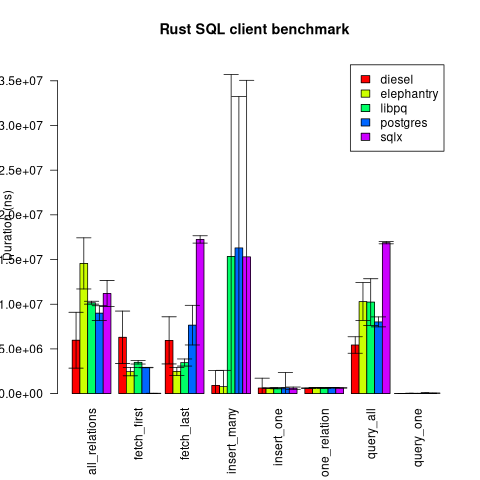
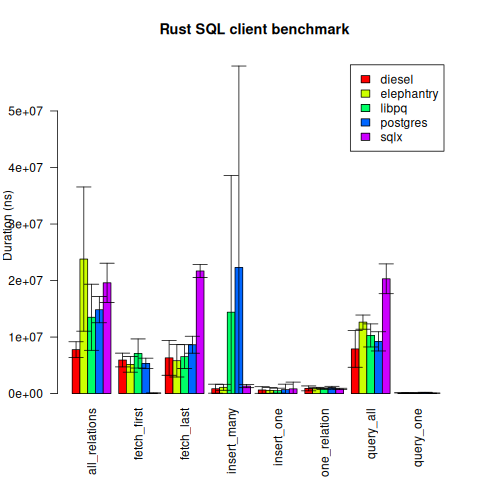
use bulk inserts for sqlx
The sqlx FAQ https://github.com/launchbadge/sqlx/blob/main/FAQ.md recommends using unnest for batch inserts since there is no support for binding an array to a values clause

diff --git a/sqlx/src/lib.rs b/sqlx/src/lib.rs
@@ -61,6 +61,18 @@ impl elephantry_benchmark::Client for Connection {
         })
         .map(|_| ())
     }
+    
+    fn insert_users(&mut self, n: usize) -> Result<(), Self::Error> {
+        let names = vec!["User"; n];
+        let colors = vec!["hair color"; n];
+        async_std::task::block_on({
+            sqlx::query("INSERT INTO users (name, hair_color) select * from unnest($1::text[], $2::text[])")
+                .bind(&names)
+                .bind(&colors)
+                .execute(&mut self.0)
+        })
+        .map(|_| ())
+    }
 
     fn fetch_all(&mut self) -> Result<Vec<Self::User>, Self::Error> {
         async_std::task::block_on({
